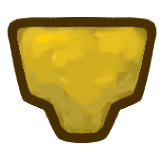
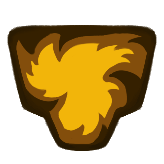
The New DancePotion Assets are here, and they are glorious.

diff --git a/theUnchainedMod/src/main/java/theUnchainedMod/DefaultMod.java b/theUnchainedMod/src/main/java/theUnchainedMod/DefaultMod.java
@@ -84,12 +84,12 @@ public class DefaultMod implements
     public static final Color DEFAULT_GRAY = CardHelper.getColor(64.0f, 70.0f, 70.0f);
 
     // Potion Colors in RGB
-    public static final Color PLACEHOLDER_POTION_LIQUID = CardHelper.getColor(209.0f, 53.0f, 18.0f); // Orange-ish Red
-    public static final Color PLACEHOLDER_POTION_HYBRID = CardHelper.getColor(255.0f, 230.0f, 230.0f); // Near White
-    public static final Color PLACEHOLDER_POTION_SPOTS = CardHelper.getColor(100.0f, 25.0f, 10.0f); // Super Dark Red/Brown
-    public static final Color FINISHER_POTION_LIQUID = CardHelper.getColor(255.0f, 173.0f, 48.0f); // Orange-ish Red
-    public static final Color FINISHER_POTION_HYBRID = CardHelper.getColor(255.0f, 230.0f, 230.0f); // Near White
-    public static final Color FINISHER_POTION_SPOTS = CardHelper.getColor(100.0f, 25.0f, 10.0f); // Super Dark Red/Brown
+    public static final Color PLACEHOLDER_POTION_LIQUID = CardHelper.getColor(209.0f, 53.0f, 18.0f);
+    public static final Color PLACEHOLDER_POTION_HYBRID = CardHelper.getColor(255.0f, 230.0f, 230.0f);
+    public static final Color PLACEHOLDER_POTION_SPOTS = CardHelper.getColor(100.0f, 25.0f, 10.0f);
+    public static final Color FINISHER_POTION_LIQUID = CardHelper.getColor(255.0f, 173.0f, 48.0f);
+    public static final Color FINISHER_POTION_HYBRID = CardHelper.getColor(255.0f, 230.0f, 230.0f);
+    public static final Color FINISHER_POTION_SPOTS = CardHelper.getColor(255.0f, 173.0f, 48.0f);
     // ONCE YOU CHANGE YOUR MOD ID (BELOW, YOU CAN'T MISS IT) CHANGE THESE PATHS!!!!!!!!!!!
     // ONCE YOU CHANGE YOUR MOD ID (BELOW, YOU CAN'T MISS IT) CHANGE THESE PATHS!!!!!!!!!!!
     // ONCE YOU CHANGE YOUR MOD ID (BELOW, YOU CAN'T MISS IT) CHANGE THESE PATHS!!!!!!!!!!!
@@ -149,6 +149,10 @@ public class DefaultMod implements
 
     public static String makeEventPath(String resourcePath) {
         return getModID() + "Resources/images/events/" + resourcePath;
+    }
+
+    public static String makePotionPath(String resourcePath) {
+        return getModID() + "Resources/images/potion/" + resourcePath;
     }
 
     // =============== /MAKE IMAGE PATHS/ =================

diff --git a/theUnchainedMod/src/main/java/theUnchainedMod/patches/DancePotionAssets.java b/theUnchainedMod/src/main/java/theUnchainedMod/patches/DancePotionAssets.java
@@ -1,0 +1,35 @@
+package theUnchainedMod.patches;
+
+
+import com.badlogic.gdx.graphics.Texture;
+import com.evacipated.cardcrawl.modthespire.lib.ByRef;
+import com.evacipated.cardcrawl.modthespire.lib.SpirePatch;
+import com.evacipated.cardcrawl.modthespire.lib.SpirePostfixPatch;
+import com.evacipated.cardcrawl.modthespire.lib.SpirePrefixPatch;
+import com.megacrit.cardcrawl.helpers.ImageMaster;
+import com.megacrit.cardcrawl.potions.AbstractPotion;
+import org.apache.logging.log4j.LogManager;
+import org.apache.logging.log4j.Logger;
+
+import static com.megacrit.cardcrawl.helpers.ImageMaster.loadImage;
+import static theUnchainedMod.DefaultMod.makePotionPath;
+
+@SpirePatch(clz = AbstractPotion.class, method = "initializeImage"
+)
+public class DancePotionAssets {
+
+    private static final Logger logger = LogManager.getLogger(DancePotionAssets.class.getName());
+
+
+    @SpirePostfixPatch()
+    public static void checkForSkirtSize(AbstractPotion potion, @ByRef Texture[] ___containerImg, @ByRef Texture[] ___liquidImg, @ByRef Texture[] ___hybridImg, @ByRef Texture[] ___spotsImg, @ByRef Texture[] ___outlineImg) {
+        if (potion.size == SkirtPotionEnum.SKIRT) {
+            logger.info("I AM HERE");
+            ___containerImg[0] = loadImage(makePotionPath("body.png"));
+            ___liquidImg[0] = loadImage(makePotionPath("liquid.png"));
+            ___hybridImg[0] = loadImage(makePotionPath("hybrid.png"));
+            ___spotsImg[0] = loadImage(makePotionPath("spots.png"));
+            ___outlineImg[0] = loadImage(makePotionPath("outline.png"));
+        }
+    }
+}

diff --git a/theUnchainedMod/src/main/java/theUnchainedMod/potions/DancePotion.java b/theUnchainedMod/src/main/java/theUnchainedMod/potions/DancePotion.java
@@ -12,6 +12,7 @@ import com.megacrit.cardcrawl.potions.AbstractPotion;
 import com.megacrit.cardcrawl.rooms.AbstractRoom;
 import theUnchainedMod.cards.Liberation;
 import theUnchainedMod.cards.Swirl;
+import theUnchainedMod.patches.SkirtPotionEnum;
 
 public class DancePotion extends CustomPotion {
 
@@ -23,7 +24,7 @@ public class DancePotion extends CustomPotion {
 
     public DancePotion() {
         // The bottle shape and inside is determined by potion size and color. The actual colors are the main DefaultMod.java
-        super(NAME, POTION_ID, PotionRarity.RARE, PotionSize.S, PotionColor.SMOKE);
+        super(NAME, POTION_ID, PotionRarity.RARE, SkirtPotionEnum.SKIRT, PotionColor.SMOKE);
         potency = getPotency();
         description = DESCRIPTIONS[0];
         isThrown = false;

diff --git a/theUnchainedMod/src/main/java/theUnchainedMod/patches/SkirtPotionEnum.java b/theUnchainedMod/src/main/java/theUnchainedMod/patches/SkirtPotionEnum.java
@@ -1,0 +1,10 @@
+package theUnchainedMod.patches;
+
+import com.evacipated.cardcrawl.modthespire.lib.SpireEnum;
+import com.megacrit.cardcrawl.potions.AbstractPotion;
+
+public class SkirtPotionEnum {
+
+    @SpireEnum
+    public static AbstractPotion.PotionSize SKIRT;
+}
